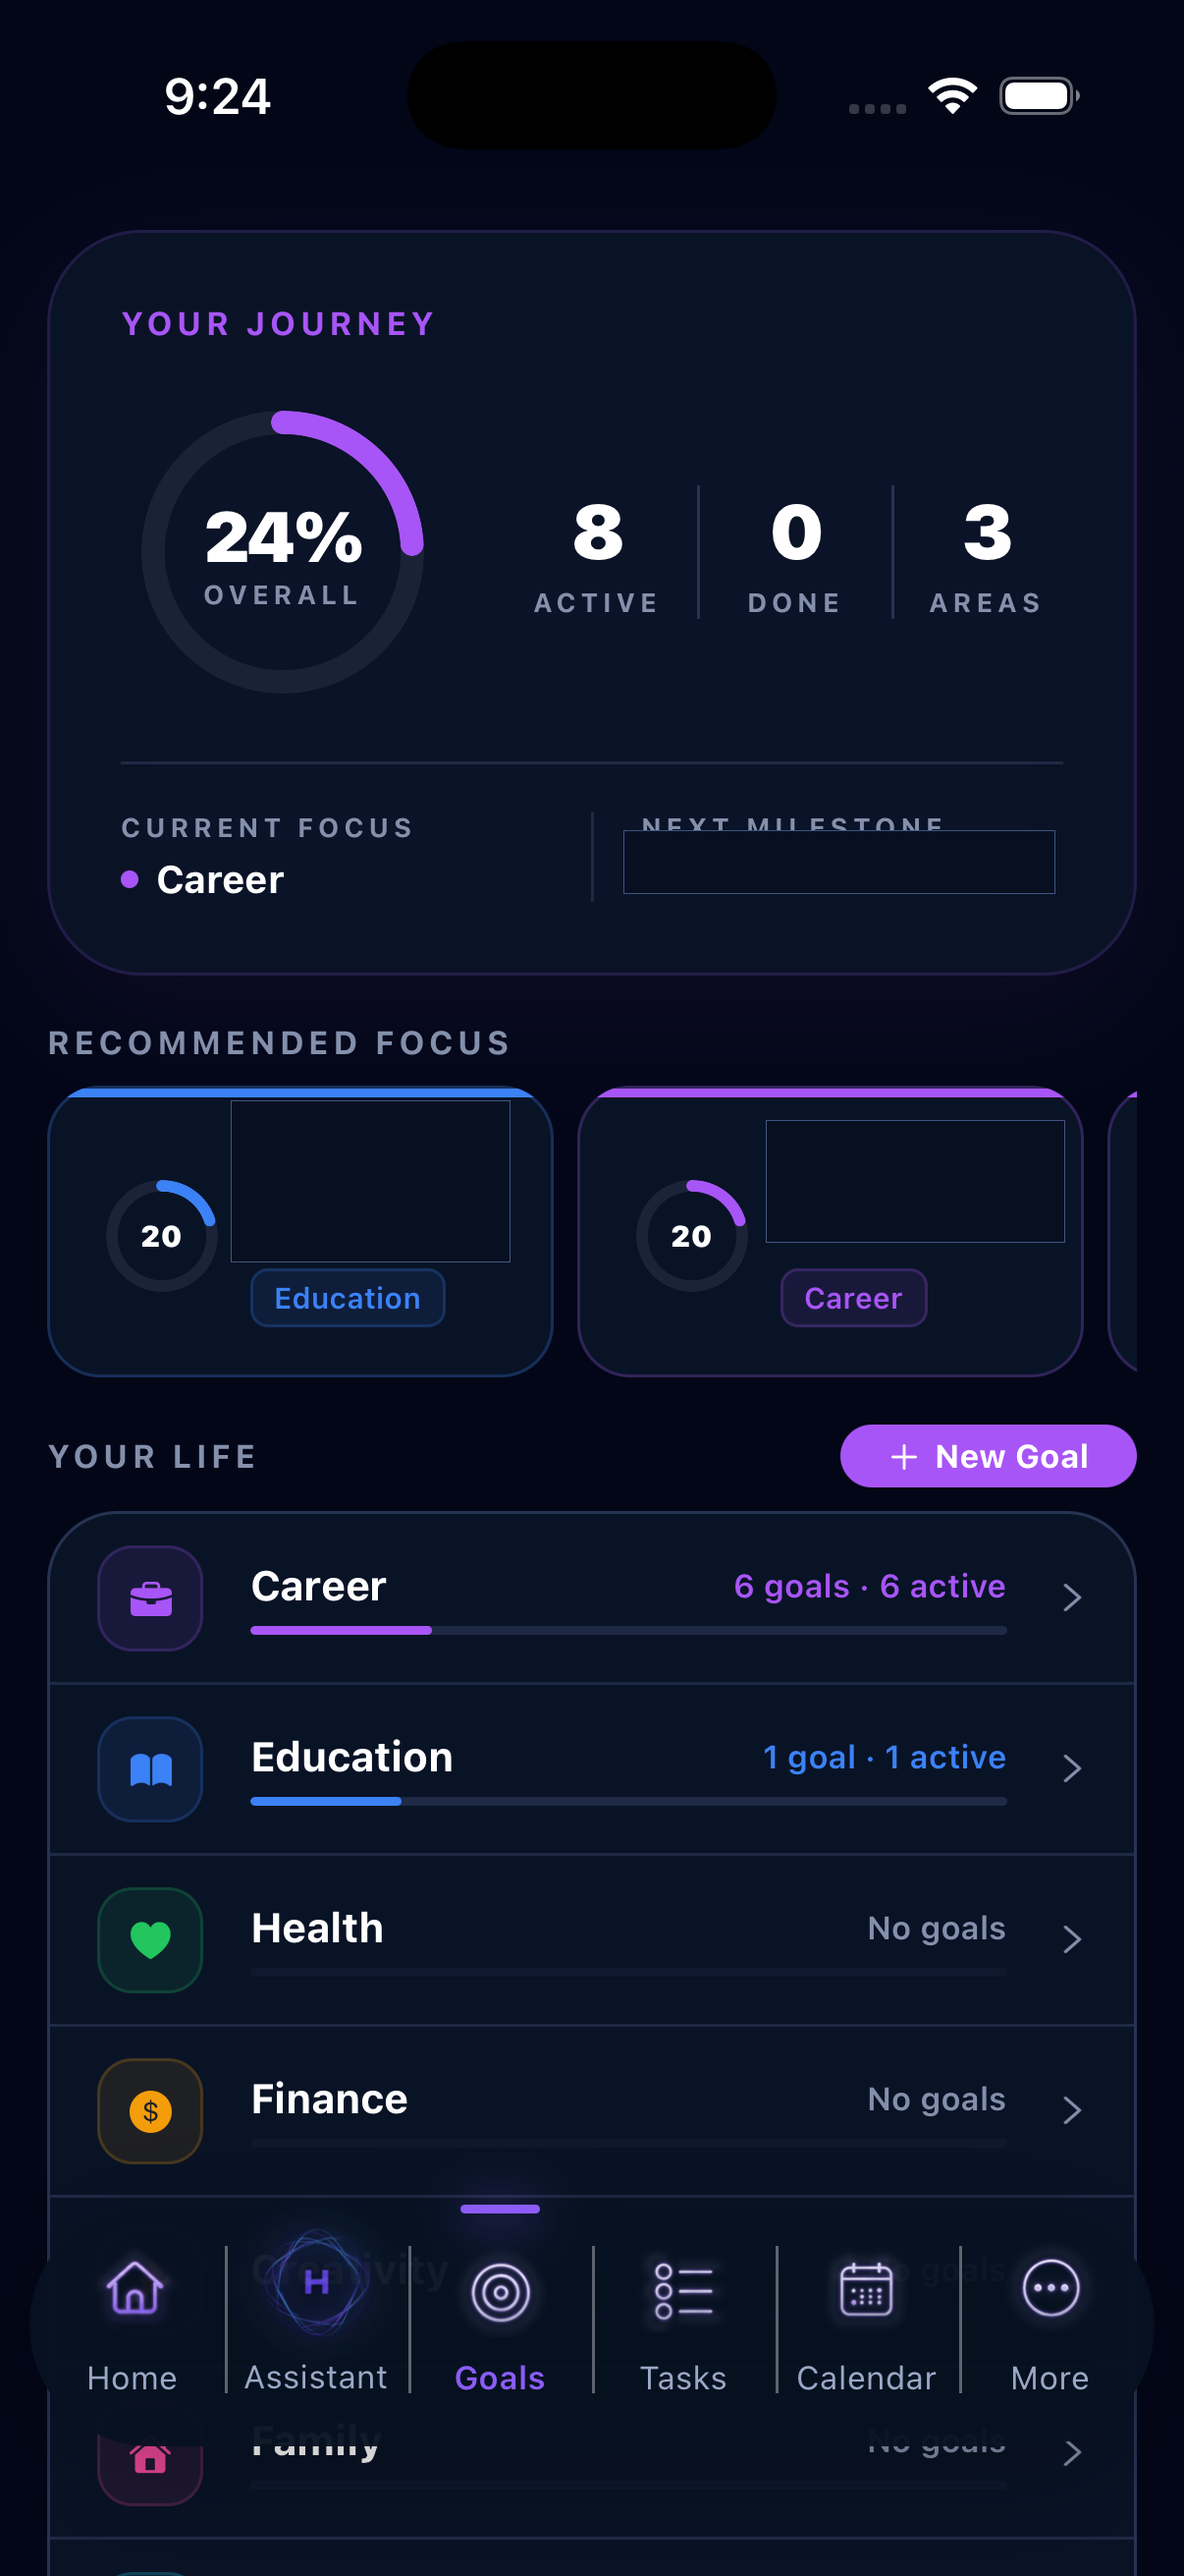
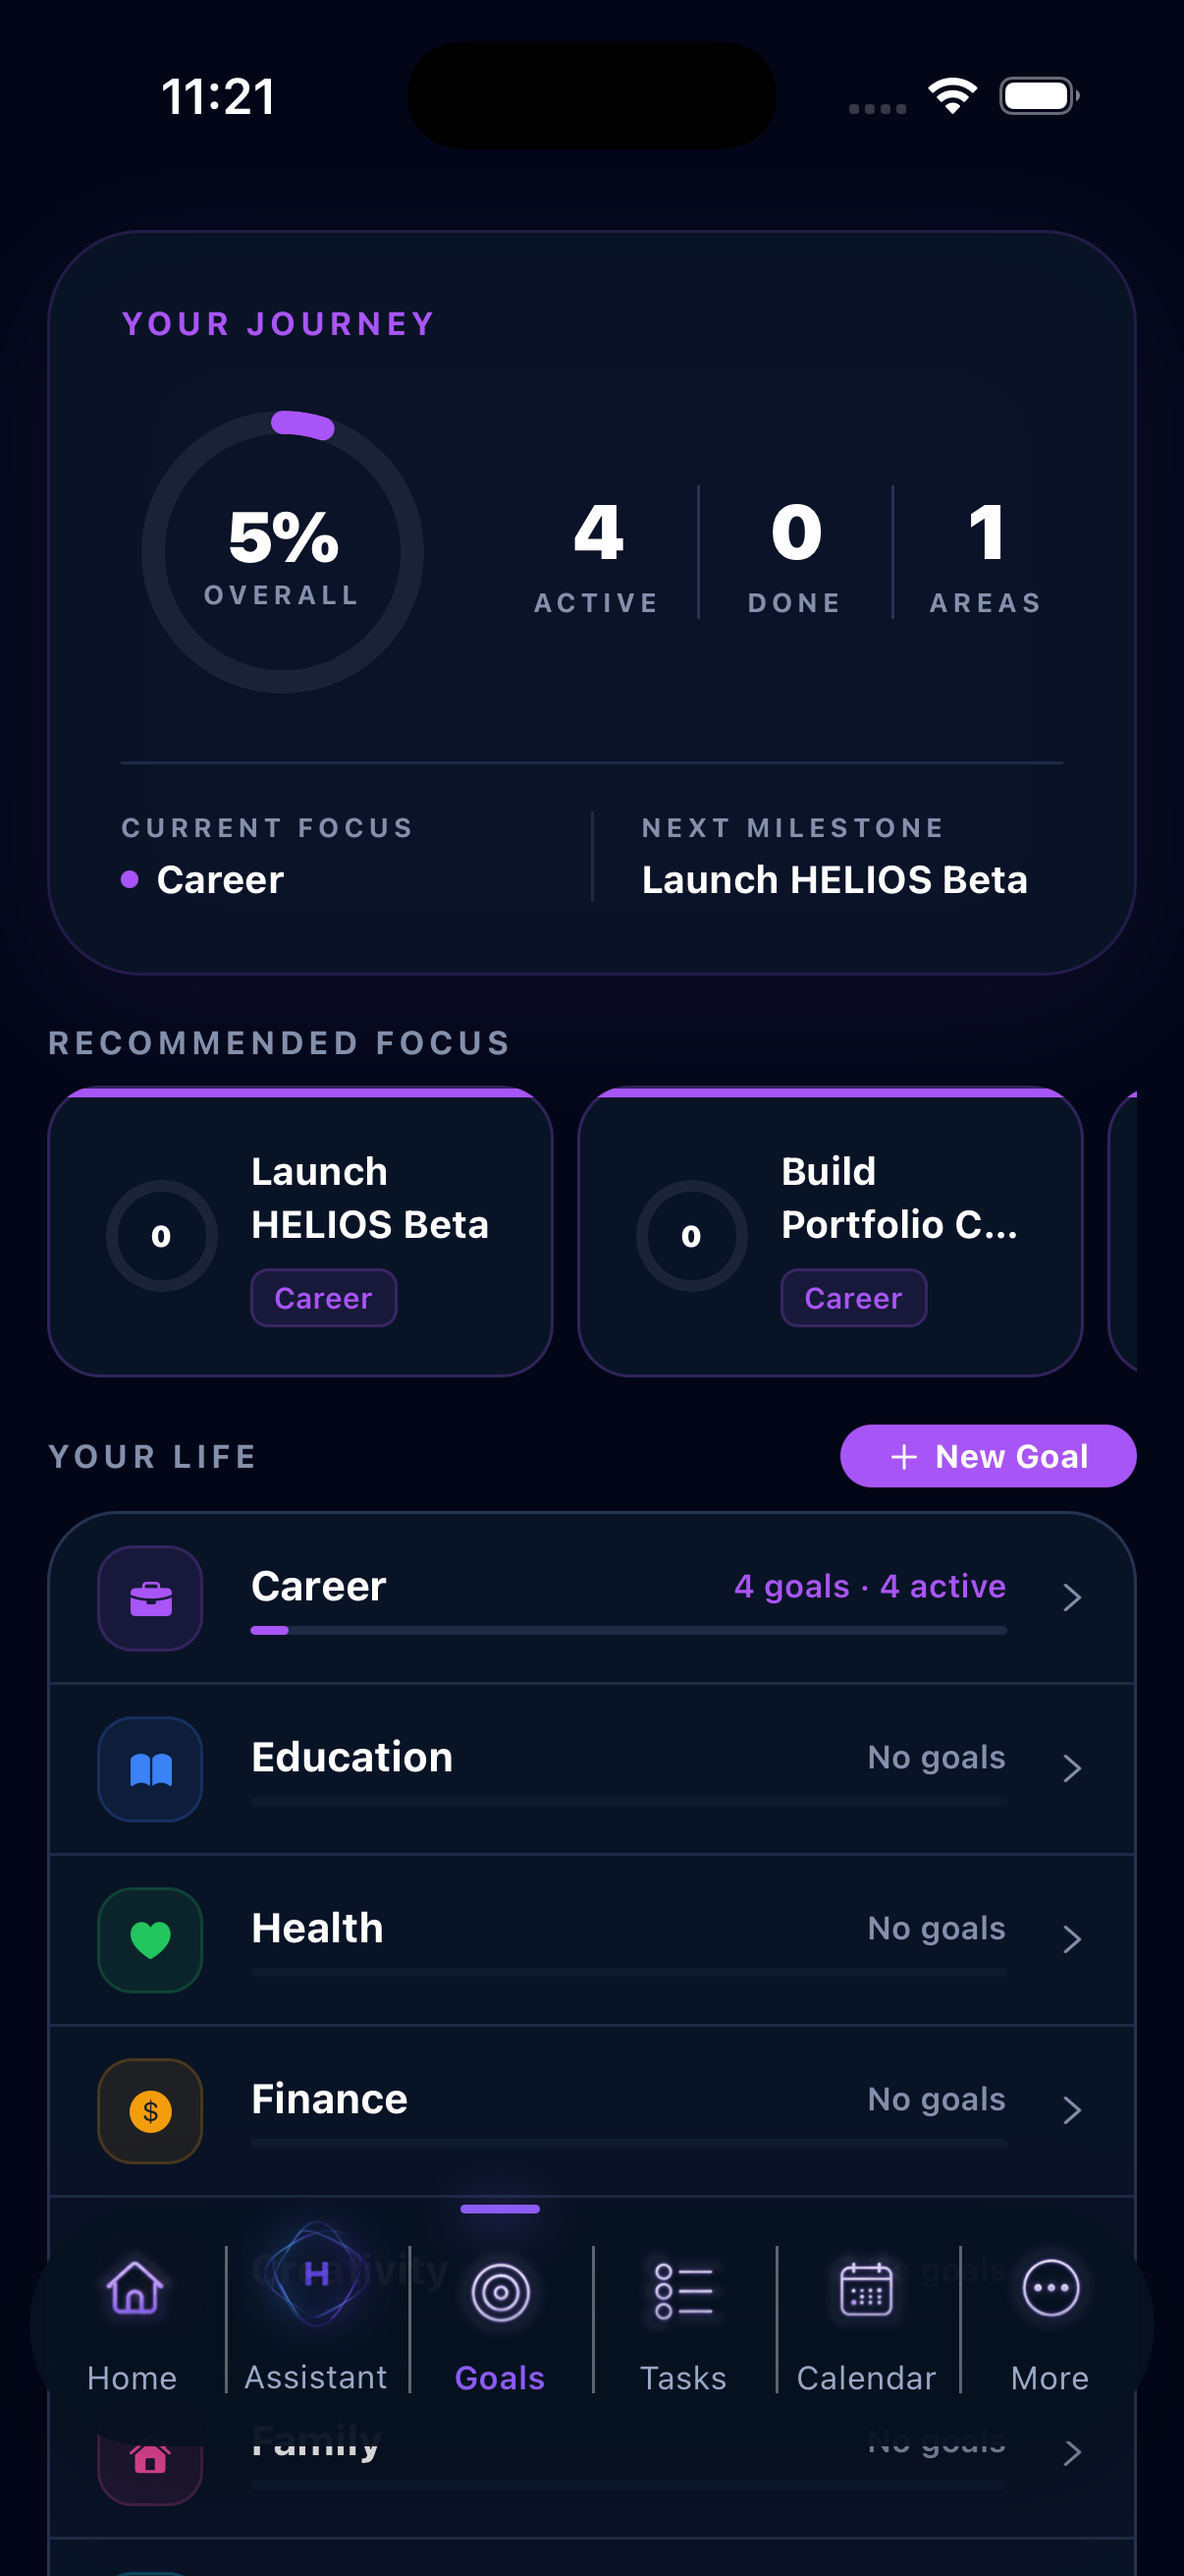
Add dummy account screenshots for V3 README

diff --git a/mobile/src/lib/helios-intelligence/context.ts b/mobile/src/lib/helios-intelligence/context.ts
@@ -8,145 +8,77 @@ import type {
 
 // ── Demo context ──────────────────────────────────────────────────────────────
 // Used as a fallback when real store data has not yet loaded.
-// Reflects Mr. Stark's actual priorities as of June 2026.
+// Uses neutral placeholder data so public demo states never expose personal context.
 
 const TODAY = new Date().toISOString().split("T")[0];
 
 export const DEMO_CONTEXT: HeliosIntelligenceContext = {
   profile: {
-    name: "Mr. Stark",
-    location: "New York, NY",
-    timezone: "America/New_York",
+    name: "Alex Demo",
+    location: "Austin, TX",
+    timezone: "America/Chicago",
   },
   goals: [
     {
       id: "g1",
-      title: "Launch HELIOS",
+      title: "Launch HELIOS Beta",
       status: "active",
       description:
-        "Build and ship HELIOS OS. Current milestone: Home screen polish → Goals redesign → Calendar redesign → Beta launch.",
+        "Prepare a polished private beta with clean onboarding, stable integrations, and clear demo materials.",
     },
     {
       id: "g2",
-      title: "Graduate from WGU",
+      title: "Build Portfolio Case Study",
       status: "active",
       description:
-        "Current course: D278 – Scripting and Programming Foundations. Next step: pass the OA.",
+        "Turn HELIOS into a recruiter-ready product story with screenshots, architecture notes, and a concise walkthrough.",
     },
     {
       id: "g3",
-      title: "Build Software Engineering Portfolio",
+      title: "Improve Weekly Health Rhythm",
       status: "active",
-      description:
-        "Production-quality projects, improved GitHub, resume preparation, job applications.",
+      description: "Keep a steady workout and sleep routine while finishing the beta sprint.",
     },
     {
       id: "g4",
-      title: "Publish Gravewood Book One",
-      status: "planning",
-      description:
-        "Original fiction universe. Worldbuilding complete. Chapter writing in progress.",
-    },
-    {
-      id: "g5",
-      title: "Expand Creative Portfolio",
+      title: "Plan Product Launch Content",
       status: "active",
       description:
-        "Photography, fashion design, animation, music production, character design.",
-    },
-    {
-      id: "g6",
-      title: "Improve Health & Fitness",
-      status: "active",
-      description: "Consistent workouts, improved nutrition, increased endurance.",
-    },
-    {
-      id: "g7",
-      title: "Build Financial Independence",
-      status: "active",
-      description: "Long-term: sustainable income through software, HELIOS, and creative work.",
+        "Draft a landing-page narrative, demo script, and launch checklist for early testers.",
     },
   ],
   tasks: [
     {
       id: "t1",
-      title: "Complete a D278 study session",
-      status: "todo",
-      priority: "high",
-      dueDate: TODAY,
-      linkedGoalId: "g2",
-    },
-    {
-      id: "t2",
-      title: "Review D278 OA preparation materials",
-      status: "todo",
-      priority: "medium",
-      dueDate: TODAY,
-      linkedGoalId: "g2",
-    },
-    {
-      id: "t3",
-      title: "Finish Hero Card refinement",
+      title: "Review Home and Assistant flows",
       status: "in_progress",
       priority: "high",
       dueDate: TODAY,
       linkedGoalId: "g1",
     },
     {
-      id: "t4",
-      title: "Review Home screen UI end-to-end",
+      id: "t2",
+      title: "Capture final README screenshots",
       status: "todo",
       priority: "high",
       dueDate: TODAY,
-      linkedGoalId: "g1",
+      linkedGoalId: "g2",
     },
     {
-      id: "t5",
-      title: "Push latest HELIOS commits to GitHub",
+      id: "t3",
+      title: "Draft beta tester checklist",
       status: "todo",
       priority: "medium",
       dueDate: TODAY,
       linkedGoalId: "g1",
     },
     {
-      id: "t6",
-      title: "Begin Goals screen redesign",
-      status: "todo",
-      priority: "high",
-      dueDate: TODAY,
-      linkedGoalId: "g1",
-    },
-    {
-      id: "t7",
-      title: "Edit one photography image",
-      status: "todo",
-      priority: "low",
-      dueDate: TODAY,
-      linkedGoalId: "g5",
-    },
-    {
-      id: "t8",
-      title: "Write additional Gravewood content",
-      status: "todo",
-      priority: "low",
-      dueDate: TODAY,
-      linkedGoalId: "g4",
-    },
-    {
-      id: "t9",
-      title: "Review GitHub repository structure",
+      id: "t4",
+      title: "Schedule recovery workout",
       status: "todo",
       priority: "medium",
       dueDate: TODAY,
       linkedGoalId: "g3",
-    },
-    {
-      id: "t10",
-      title: "Workout session",
-      status: "todo",
-      priority: "medium",
-      dueDate: TODAY,
-      linkedGoalId: "g6",
     },
   ],
   calendarEvents: [],

diff --git a/mobile/src/app/(tabs)/calendar.tsx b/mobile/src/app/(tabs)/calendar.tsx
@@ -23,7 +23,7 @@ import Input from "../../components/ui/Input";
 import DateTimeField from "../../components/ui/DateTimeField";
 import { radius, spacing, typography, type ThemeColors } from "../../theme/theme";
 import { useTheme } from "../../theme/ThemeContext";
-import { useAuthStore, useCalendarStore, useTasksStore } from "../../store";
+import { useAuthStore, useCalendarStore, useProfileStore, useTasksStore } from "../../store";
 import type { CalendarEvent, CalendarEventCreate } from "../../store";
 import type { Task } from "../../services/tasksService";
 import { historyService } from "../../services/historyService";
@@ -195,11 +195,11 @@ function formatLongDuration(minutes: number): string {
   return `${h} ${h === 1 ? "hour" : "hours"} ${m} minutes`;
 }
 
-function getGreeting(date: Date): string {
+function getGreeting(date: Date, name: string): string {
   const hour = date.getHours();
-  if (hour < 12) return "Good morning, Mr. Stark.";
-  if (hour < 17) return "Good afternoon, Mr. Stark.";
-  return "Good evening, Mr. Stark.";
+  if (hour < 12) return `Good morning, ${name}.`;
+  if (hour < 17) return `Good afternoon, ${name}.`;
+  return `Good evening, ${name}.`;
 }
 
 function sourceLabel(source: CalendarEvent["source"]): string {
@@ -262,6 +262,10 @@ export default function CalendarScreen() {
   const styles = useMemo(() => createStyles(colors), [colors]);
   const insets = useSafeAreaInsets();
   const accessToken = useAuthStore((s) => s.accessToken);
+  const authUserName = useAuthStore((s) => s.user?.name);
+  const profileDisplayName = useProfileStore((s) => s.display_name);
+  const profileFirstName = useProfileStore((s) => s.first_name);
+  const calendarName = profileDisplayName ?? profileFirstName ?? authUserName ?? "there";
   const { events, isLoading, isMutating, error, fetchEvents, createEvent, updateEvent, deleteEvent } = useCalendarStore();
   const { tasks, fetchTasks } = useTasksStore();
 
@@ -658,7 +662,7 @@ export default function CalendarScreen() {
               ? (dayHistory?.summary ?? "A preserved snapshot of what happened that day.")
               : selectedMode === "future"
                 ? "A planning view for what HELIOS can help prepare."
-                : getGreeting(new Date())}
+                : getGreeting(new Date(), calendarName)}
           </Text>
           <Text style={styles.summaryTitle}>
             {selectedMode === "past" ? "Day Summary" : selectedMode === "future" ? "Planned Summary" : "Today's Summary"}

diff --git a/mobile/src/lib/helios-intelligence/prioritizeTasks.ts b/mobile/src/lib/helios-intelligence/prioritizeTasks.ts
@@ -2,7 +2,7 @@ import type { HeliosCalendarEvent, HeliosGoal, HeliosTask } from "./types";
 
 // ── Category patterns ─────────────────────────────────────────────────────────
 // Used to classify tasks by life area so priority bonuses can be applied.
-// Order reflects Mr. Stark's stated life priorities.
+// Order reflects the current product demo's priority model.
 
 const WGU_RE     = /\bd278\b|wgu|study session|objective assessment|scripting|programming foundations|d\s*278/i;
 const HELIOS_RE  = /helios|home screen|hero card|goals.*(redesign|screen)|calendar.*(redesign|screen)|task center|daily brief|energy core|commit.*git|git.*commit|push.*github|github.*push/i;

diff --git a/README.md b/README.md
@@ -10,7 +10,9 @@ The project is a full-stack mobile platform built with a React Native / Expo iOS
 
 ## Product Preview
 
-Sanitized V3 screenshots are included in the repository so the product can be evaluated without exposing personal account data.
+Sanitized V3 screenshots are included in the repository so the product can be evaluated without exposing personal account data. The screenshots use a dummy account (`Alex Demo`) and include both dark and light mode captures.
+
+### Dark Mode
 
 <table>
   <tr>
@@ -48,6 +50,47 @@ Sanitized V3 screenshots are included in the repository so the product can be ev
   </tr>
   <tr>
     <td colspan="3" align="center"><img src="screenshots/sanitized/09-notifications.png" alt="HELIOS Notifications screen" width="240" /></td>
+  </tr>
+</table>
+
+### Light Mode
+
+<table>
+  <tr>
+    <th>Home</th>
+    <th>Assistant</th>
+    <th>Goals</th>
+  </tr>
+  <tr>
+    <td><img src="screenshots/sanitized-light/01-home.png" alt="HELIOS Home screen in light mode" width="240" /></td>
+    <td><img src="screenshots/sanitized-light/02-assistant.png" alt="HELIOS Assistant screen in light mode" width="240" /></td>
+    <td><img src="screenshots/sanitized-light/03-goals.png" alt="HELIOS Goals screen in light mode" width="240" /></td>
+  </tr>
+  <tr>
+    <th>Tasks</th>
+    <th>Calendar</th>
+    <th>More</th>
+  </tr>
+  <tr>
+    <td><img src="screenshots/sanitized-light/04-tasks.png" alt="HELIOS Tasks screen in light mode" width="240" /></td>
+    <td><img src="screenshots/sanitized-light/05-calendar.png" alt="HELIOS Calendar screen in light mode" width="240" /></td>
+    <td><img src="screenshots/sanitized-light/06-more.png" alt="HELIOS More screen in light mode" width="240" /></td>
+  </tr>
+  <tr>
+    <th>Connected Services</th>
+    <th>Profile</th>
+    <th>Settings</th>
+  </tr>
+  <tr>
+    <td><img src="screenshots/sanitized-light/07-connected-services.png" alt="HELIOS Connected Services screen in light mode" width="240" /></td>
+    <td><img src="screenshots/sanitized-light/08-profile.png" alt="HELIOS Profile screen in light mode" width="240" /></td>
+    <td><img src="screenshots/sanitized-light/10-settings.png" alt="HELIOS Settings screen in light mode" width="240" /></td>
+  </tr>
+  <tr>
+    <th colspan="3">Notifications</th>
+  </tr>
+  <tr>
+    <td colspan="3" align="center"><img src="screenshots/sanitized-light/09-notifications.png" alt="HELIOS Notifications screen in light mode" width="240" /></td>
   </tr>
 </table>
 
